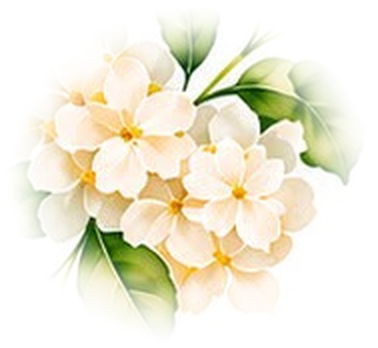
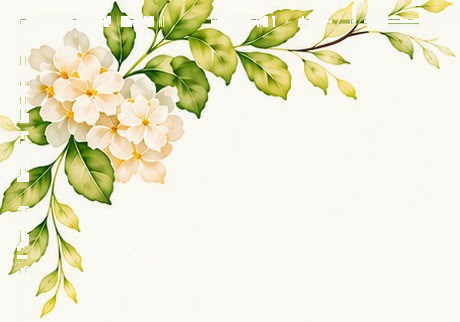
feat: thin out side leaves and center the invite's flower corner
- Side leaf panels now hold 3 sprigs per 1500px instead of 5 per 900px;
  on phones they are smaller and don't repeat, so only a few show near
  the top.
- Home: replace the cropped flower with the invite's whole top-left
  flower-and-leaf corner (images/flower.png), centered, with the
  invite's frame lines and "SAVE THE DATE" text removed.

diff --git a/css/style.css b/css/style.css
@@ -116,8 +116,8 @@ main { max-width: 760px; margin: 0 auto; padding: 1.5rem 1rem 3rem; }
 .date-line { font-size: 1.6rem; letter-spacing: 0.2em; color: var(--green); margin: 0.3rem 0; }
 .venue-line { font-style: italic; margin: 0; }
 
-/* Flower divider (images/flower.png, the invite's corner flowers with faded edges). */
-.sprig { display: block; width: 140px; height: auto; margin: 0.6rem auto; }
+/* Flower corner art (images/flower.png), centred under the heading. */
+.sprig { display: block; width: 300px; max-width: 80%; height: auto; margin: 0.8rem auto; }
 
 .countdown { display: flex; justify-content: center; gap: 0.8rem; margin: 2rem 0; flex-wrap: wrap; }
 .countdown div {
@@ -228,7 +228,12 @@ html[dir="rtl"] .site-footer::after { transform: rotate(180deg) scaleX(-1); }
   .site-header::before, .site-footer::after { width: 130px; height: 72px; background-size: 320px auto; }
   /* Room under the names so the corner flowers don't cover them. */
   .site-footer { padding-bottom: 5rem; }
-  body { background-size: 80px auto, 80px auto, auto; background-position: left 10px top 170px, right 10px top 520px, 0 0; }
+  /* Phones: small side leaves that don't repeat, so only a few appear near the top. */
+  body {
+    background-size: 70px auto, 70px auto, auto;
+    background-position: left 6px top 170px, right 6px top 420px, 0 0;
+    background-repeat: no-repeat, no-repeat, repeat;
+  }
   .header-names { font-size: 2.4rem; }
   .menu-toggle {
     display: inline-block; margin-top: 0.8rem; background: none; border: 1px solid var(--green);

diff --git a/index.html b/index.html
@@ -56,8 +56,8 @@
     <section id="home" class="tab">
       <p class="eyebrow" data-i18n="home.eyebrow"></p>
       <p class="eyebrow eyebrow-sub" data-i18n="home.eyebrowSub"></p>
-      <!-- White flower cluster cut from the Save the Date's top-left corner. -->
-      <img class="sprig" src="images/flower.png" alt="" width="378" height="348">
+      <!-- The Save the Date's whole top-left flower corner (flowers and leaves), frame lines removed. -->
+      <img class="sprig" src="images/flower.png" alt="" width="460" height="322">
       <p class="date-line" data-i18n="home.date"></p>
       <p class="venue-line" data-i18n="home.venue"></p>
 
